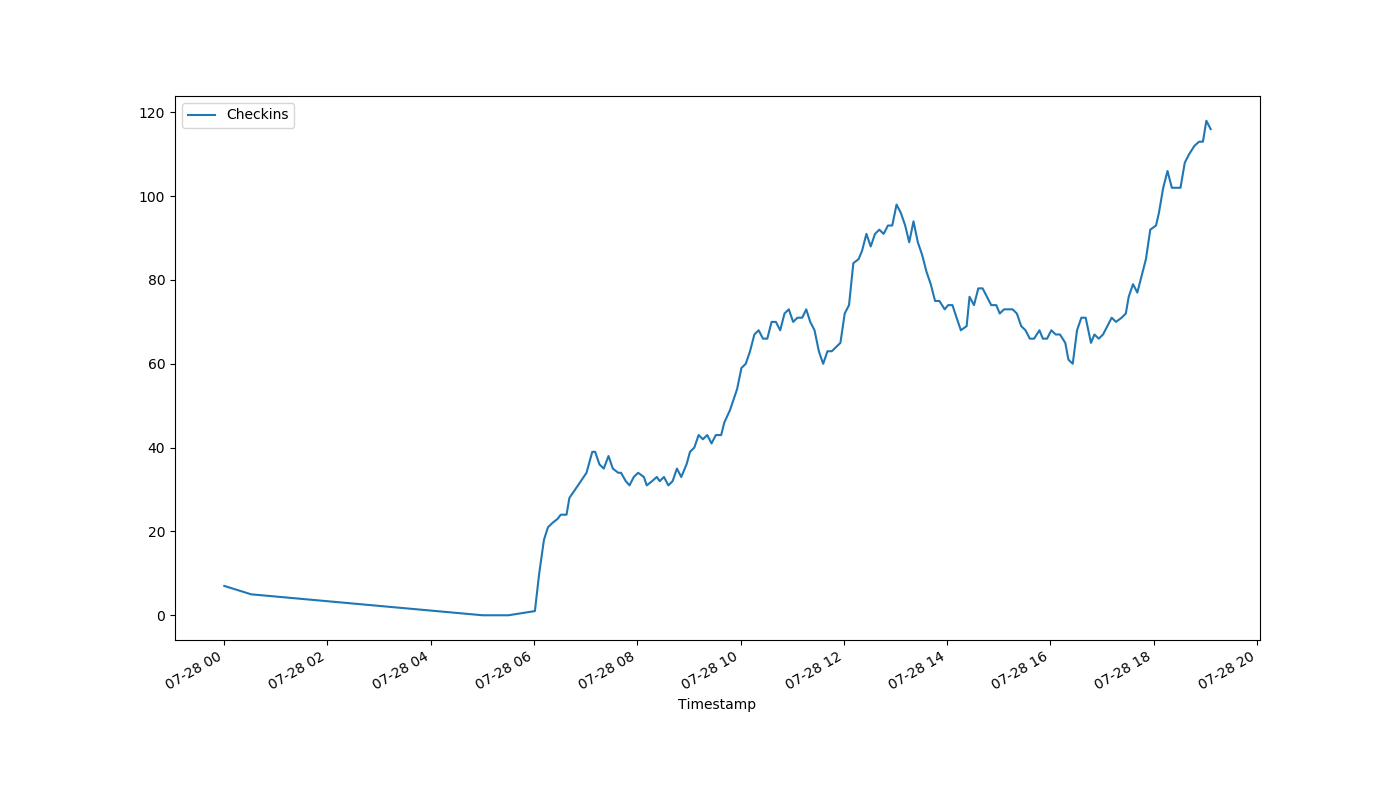
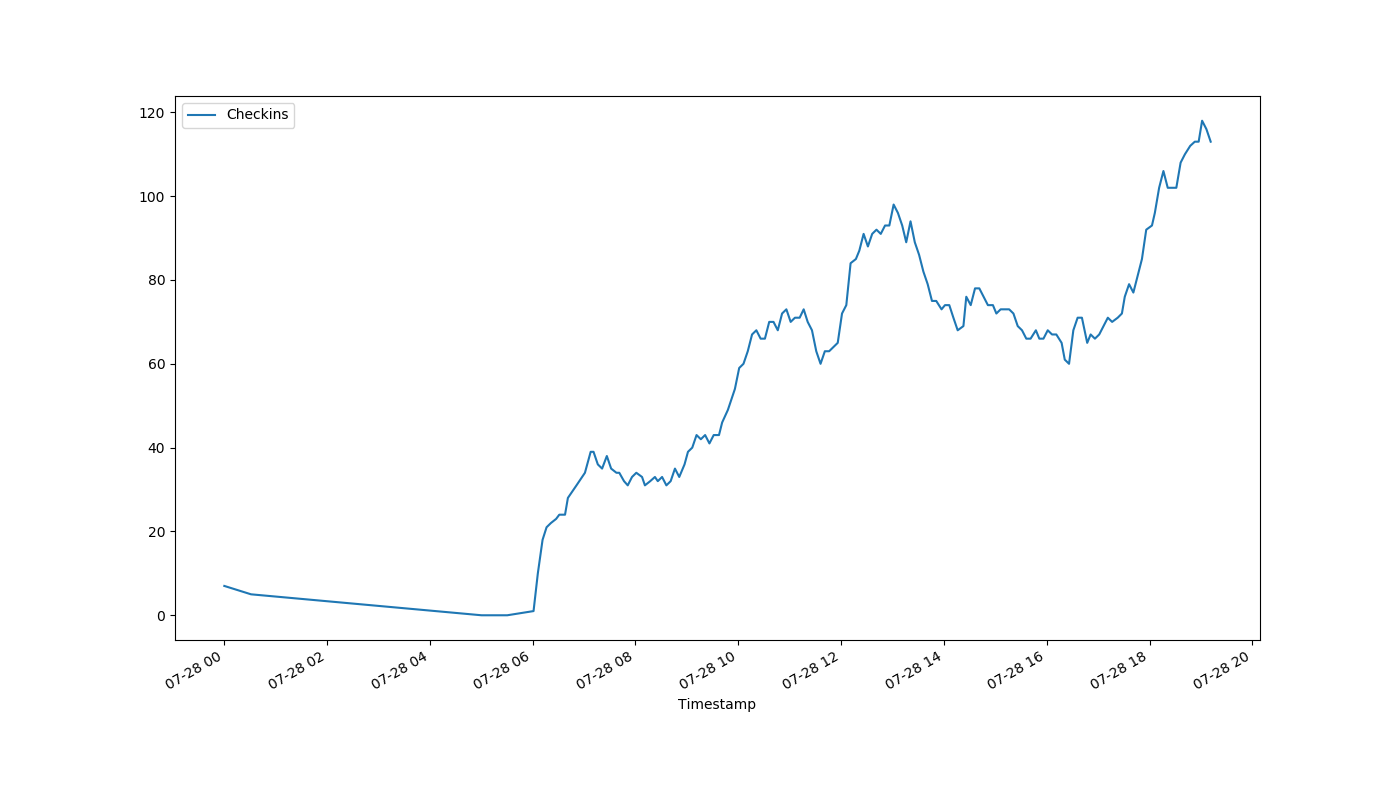
auto-Jul-28-19:12:03

diff --git a/index.html b/index.html
@@ -1,1 +1,1 @@
-<!DOCTYPE html><html><head><meta http-equiv="refresh" content="30"><link rel='stylesheet' href='holmcurrent.css'></head><body><p id='count'>116</p><div id='graph-wrap'><img id='graph' src='holmgraph-Jul-28.png'></div><p id='updated'>Last updated 19:06:18 / 19:06:18</p></body></html>
+<!DOCTYPE html><html><head><meta http-equiv="refresh" content="30"><link rel='stylesheet' href='holmcurrent.css'></head><body><p id='count'>113</p><div id='graph-wrap'><img id='graph' src='holmgraph-Jul-28.png'></div><p id='updated'>Last updated 19:11:19 / 19:11:18</p></body></html>
